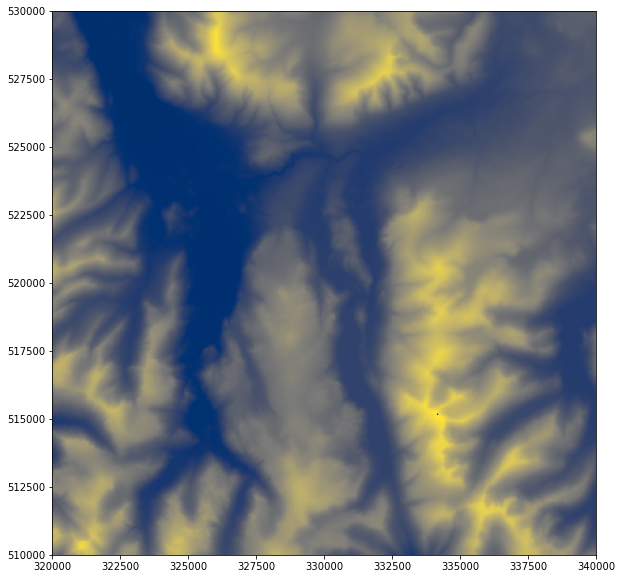
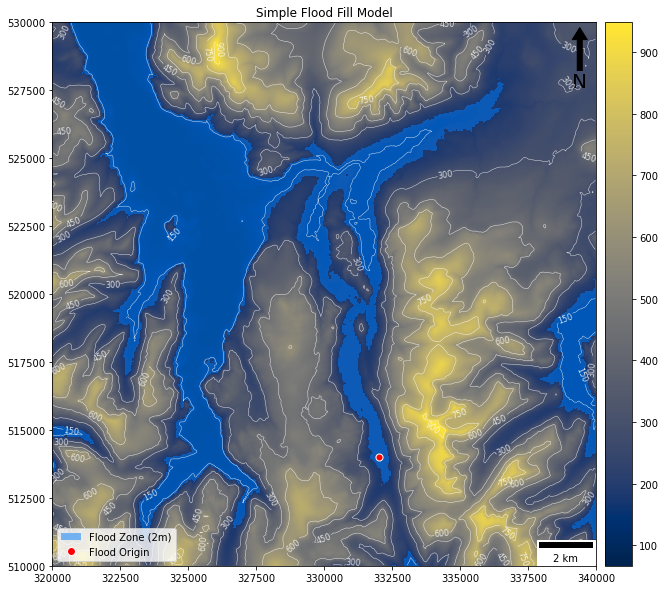
final map!

diff --git a/week7/flood.py b/week7/flood.py
@@ -10,6 +10,14 @@ from rasterio.transform import rowcol
 from rasterio.plot import show as rio_show
 from matplotlib.pyplot import subplots, savefig
 from matplotlib.colors import LinearSegmentedColormap
+from math import floor, ceil
+from geopandas import GeoSeries
+from shapely.geometry import Point
+from matplotlib.lines import Line2D
+from matplotlib.patches import Patch
+from matplotlib.colors import Normalize
+from matplotlib.cm import ScalarMappable
+from matplotlib_scalebar.scalebar import ScaleBar
 
 def coord_2_img(transform, x, y):
 	""" 
@@ -84,3 +92,64 @@ with rio_open("../../data/helvellyn/Helvellyn-50.tif") as dem:  # 50m resolution
     output = flood_fill(FLOOD_DEPTH, LOCATION[0], LOCATION[1], dem_data, dem.transform)
     
     print(output.sum())
+    
+# output image
+fig, my_ax = subplots(1, 1, figsize=(16, 10))
+my_ax.set_title("Simple Flood Fill Model")
+
+# draw dem
+rio_show(
+    dem_data,
+    ax=my_ax,
+    transform = dem.transform,
+    cmap = 'cividis',
+    )
+
+# draw dem as contours
+rio_show(
+    dem_data,
+    ax=my_ax,
+    contour=True,
+    transform = dem.transform,
+    colors = ['white'],
+    linewidths = [0.5],
+    )
+
+# add flooding
+rio_show(
+    output,
+    ax=my_ax,
+    transform=dem.transform,
+    cmap = LinearSegmentedColormap.from_list('binary', [(0, 0, 0, 0), (0, 0.5, 1, 0.5)], N=2)
+    )
+
+# add origin point
+GeoSeries(Point(LOCATION)).plot(
+    ax = my_ax,
+    markersize = 50,
+    color = 'red',
+    edgecolor = 'white'
+    )
+
+# add a colour bar
+fig.colorbar(ScalarMappable(norm=Normalize(vmin=floor(dem_data.min()), vmax=ceil(dem_data.max())), cmap='cividis'), ax=my_ax, pad=0.01)
+
+# add north arrow
+x, y, arrow_length = 0.97, 0.99, 0.1
+my_ax.annotate('N', xy=(x, y), xytext=(x, y-arrow_length),
+    arrowprops=dict(facecolor='black', width=5, headwidth=15),
+    ha='center', va='center', fontsize=20, xycoords=my_ax.transAxes)
+
+# add scalebar
+my_ax.add_artist(ScaleBar(dx=1, units="m", location="lower right"))
+
+# add legend for point
+my_ax.legend(
+    handles=[
+        Patch(facecolor=(0, 0.5, 1, 0.5), edgecolor=None, label=f'Flood Zone ({FLOOD_DEPTH}m)'),
+        Line2D([0], [0], marker='o', color=(1,1,1,0), label='Flood Origin', markerfacecolor='red', markersize=8)
+    ], loc='lower left')
+
+# save the result
+savefig('./out/6.png', bbox_inches='tight')
+print("done!")
